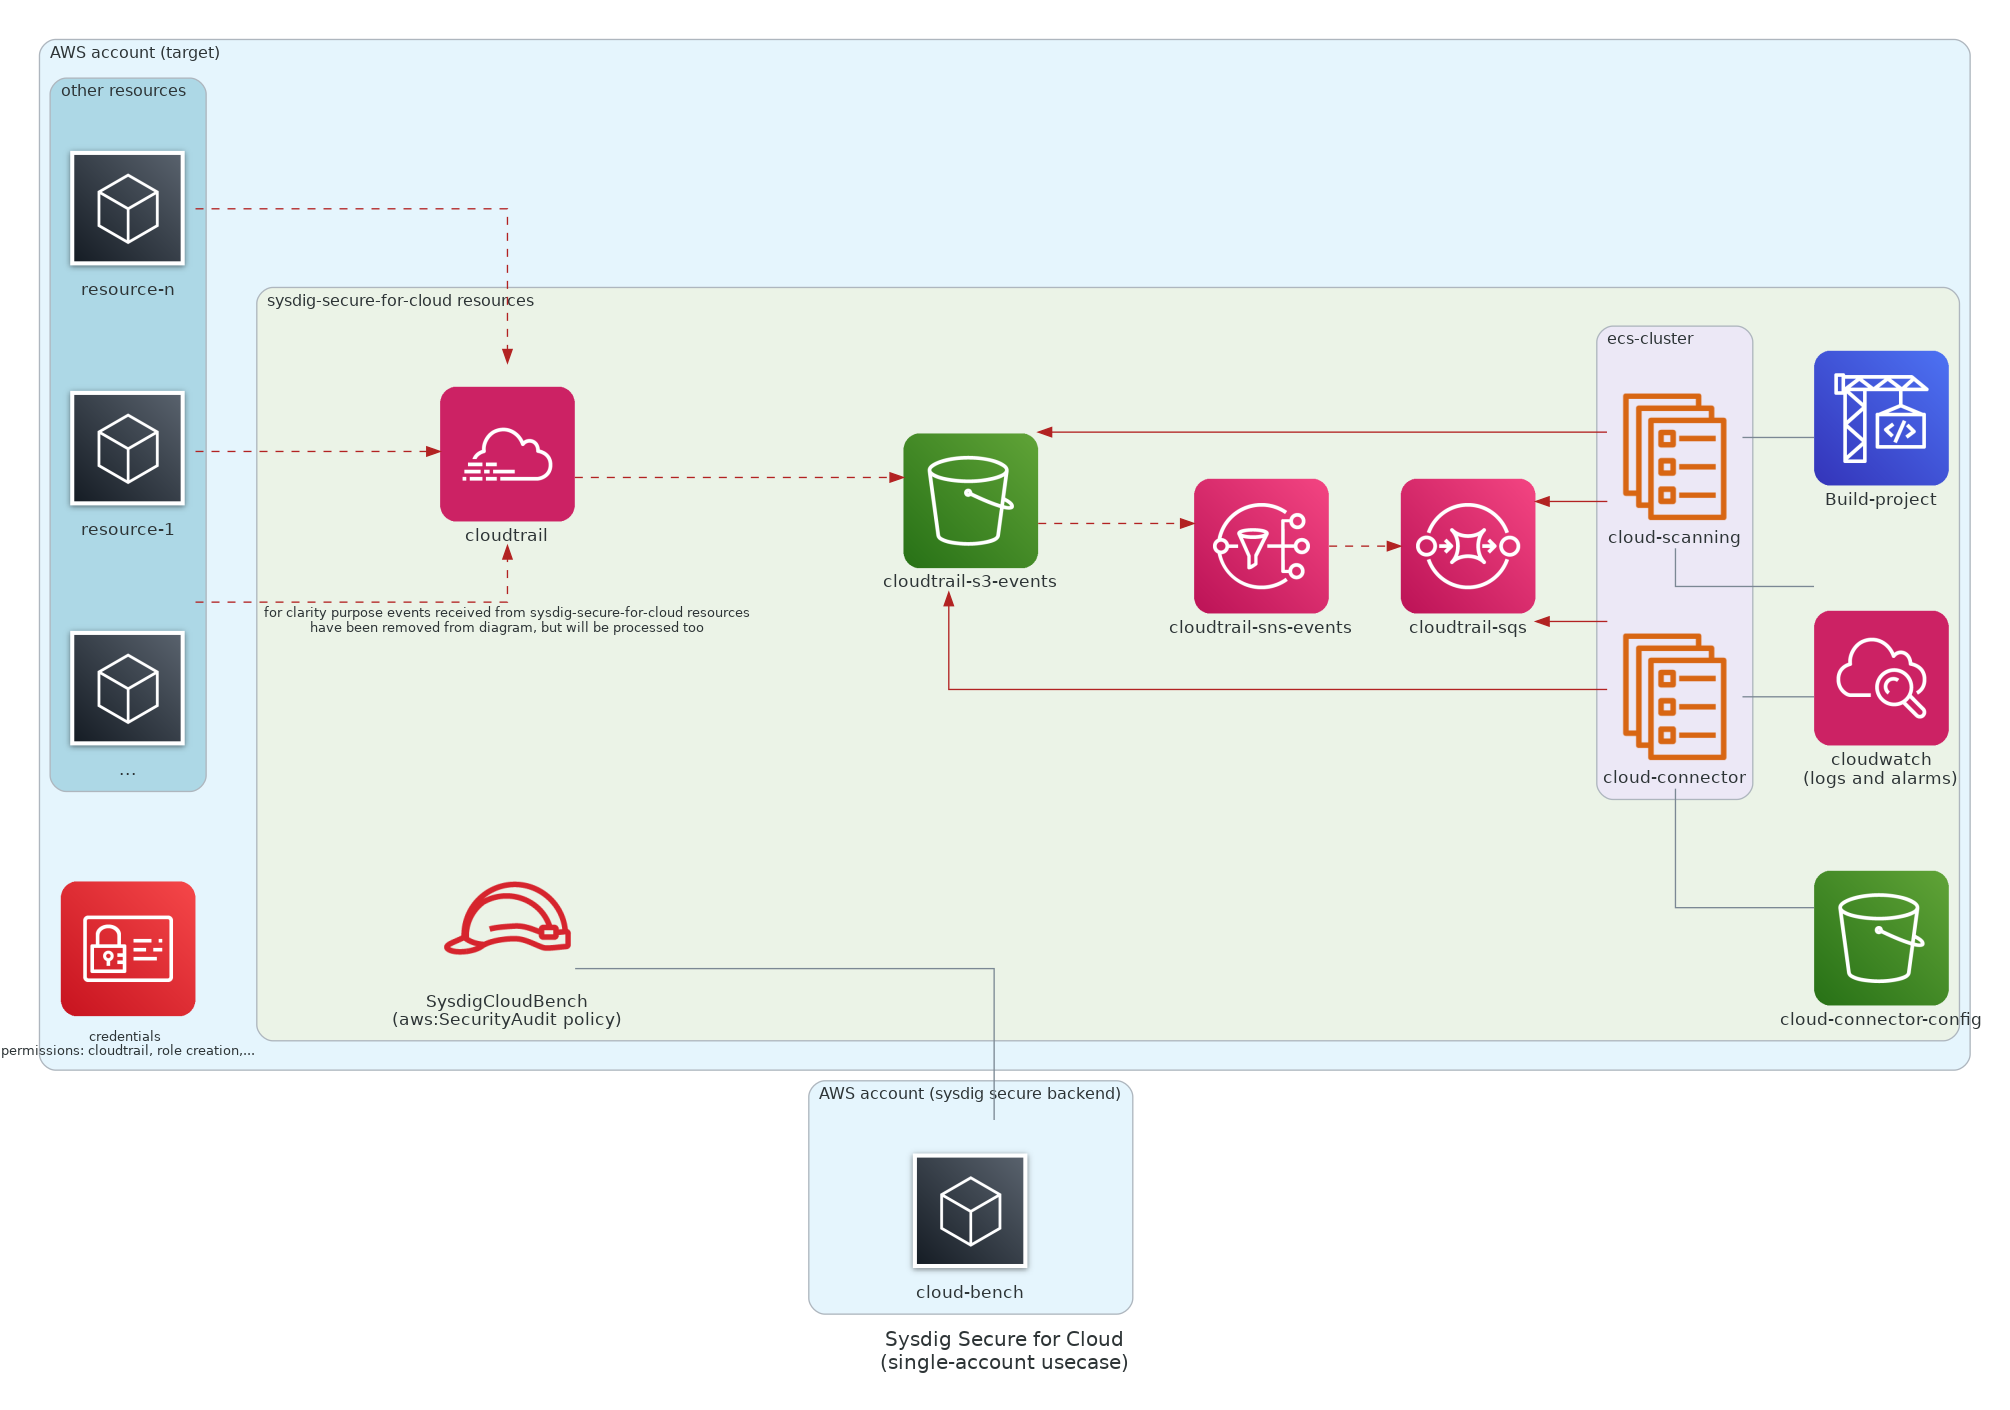
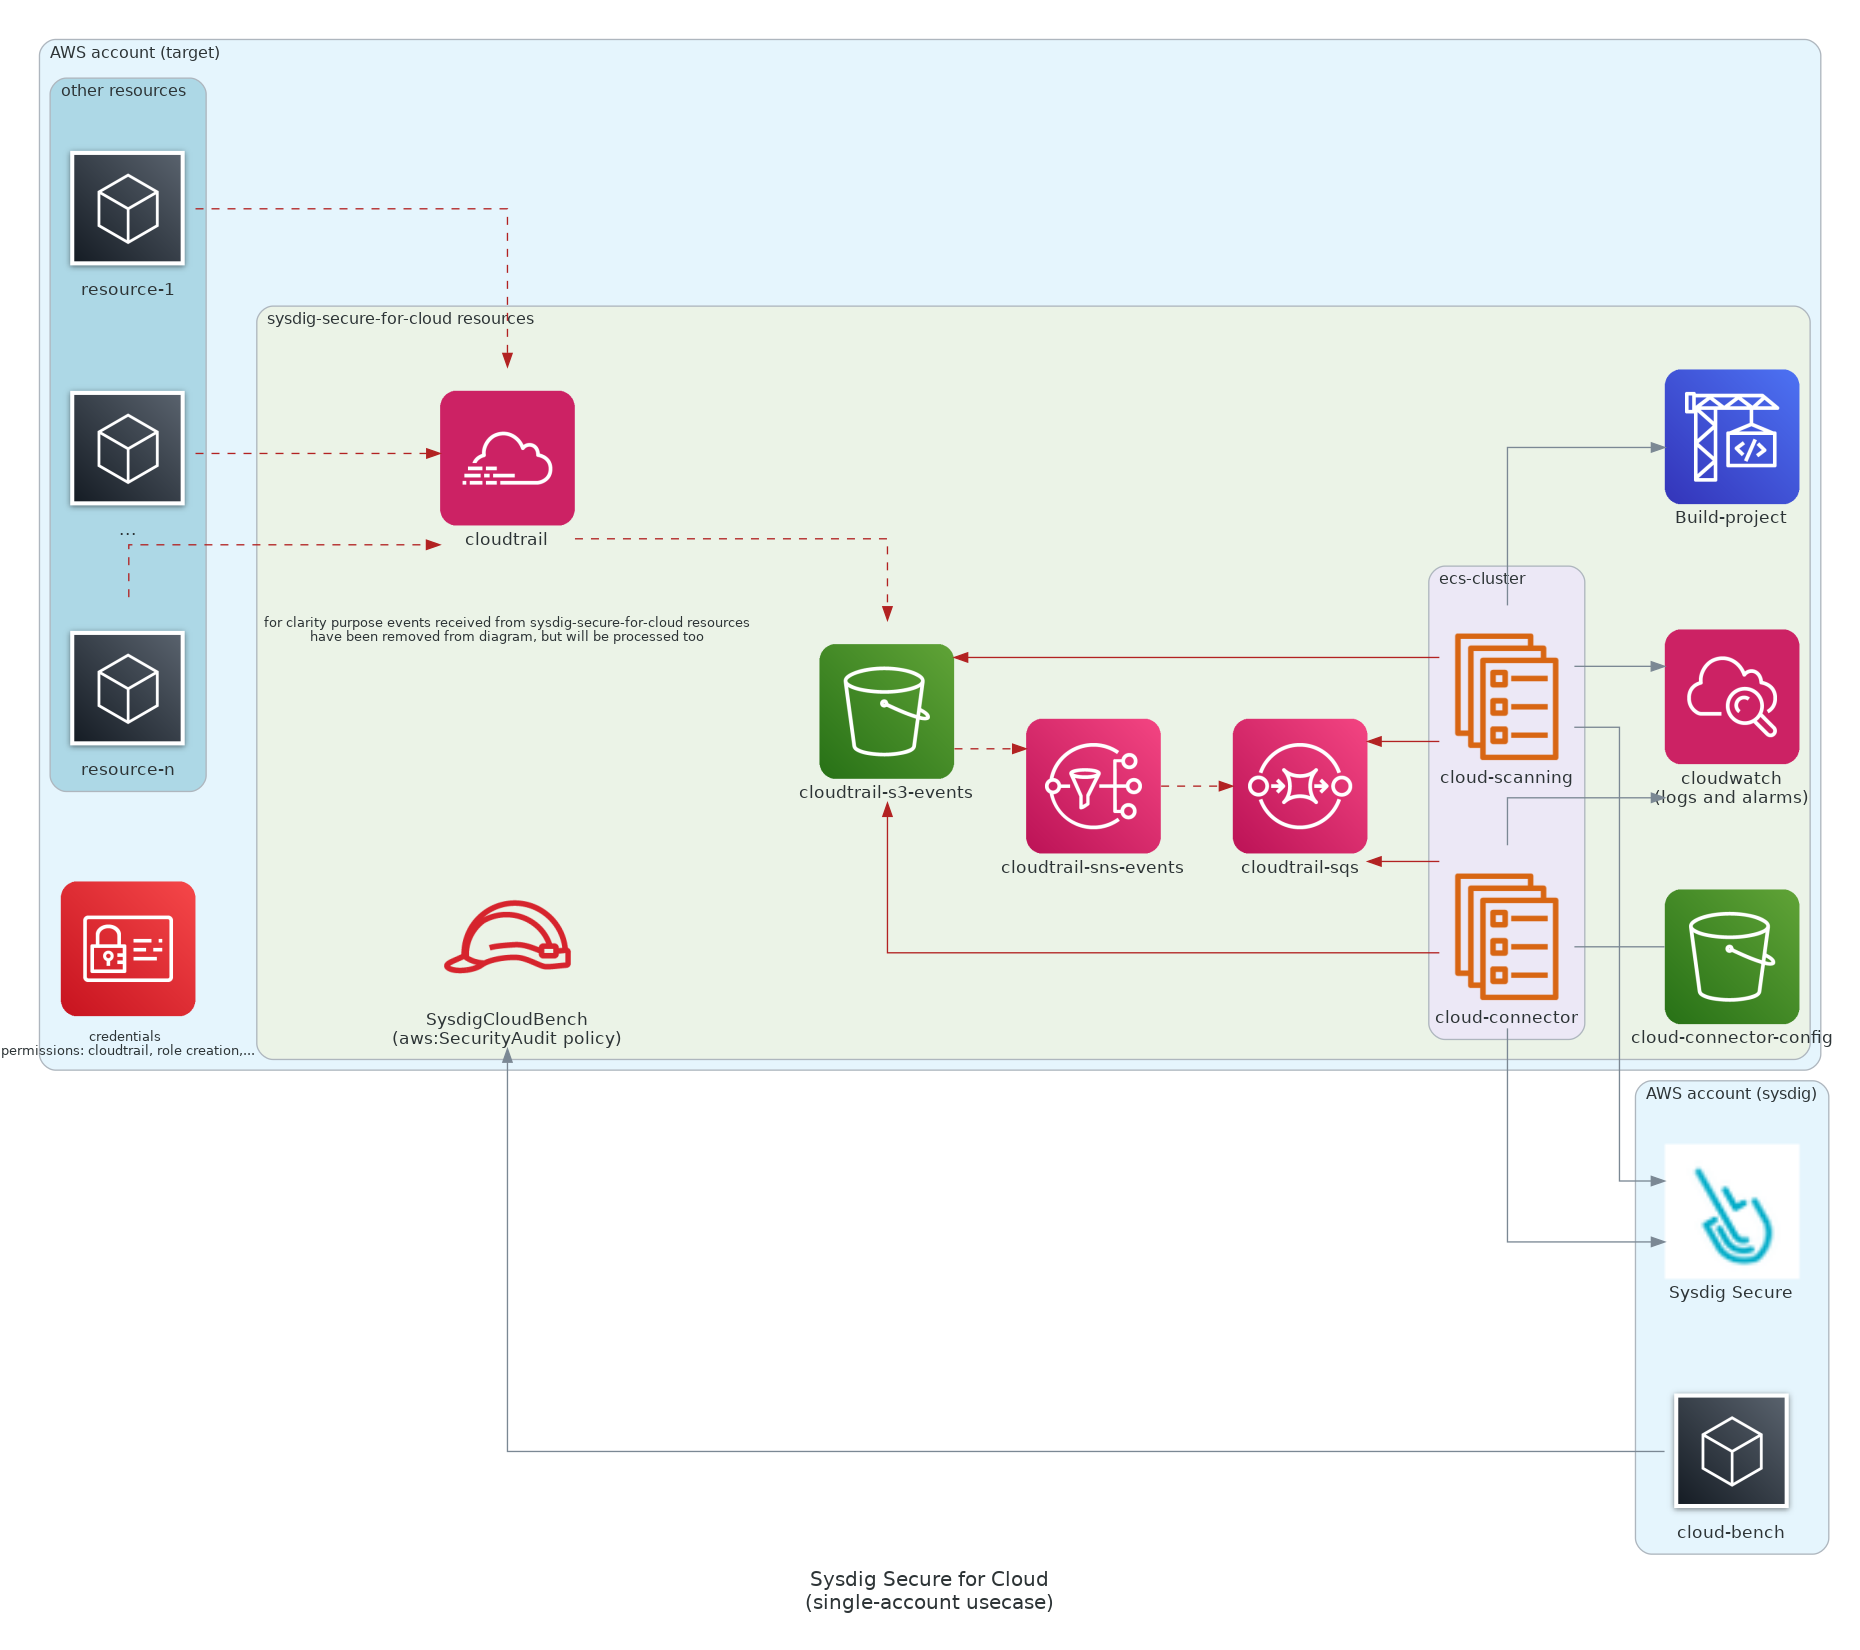
chore(doc): add sysdig object on diag

Changed region(s): [[0.0, 0.0, 0.9978, 0.9986]]

diff --git a/examples/organizational/diagram-org.py b/examples/organizational/diagram-org.py
@@ -1,5 +1,6 @@
 # diagrams as code vía https://diagrams.mingrammer.com
 from diagrams import Diagram, Cluster, Diagram, Edge, Node
+from diagrams.custom import Custom
 from diagrams.aws.general import General
 from diagrams.aws.management import Cloudtrail
 from diagrams.aws.storage import S3, SimpleStorageServiceS3Bucket
@@ -35,15 +36,16 @@ with Diagram("Sysdig Secure for Cloud{}(organizational usecase)".format("\n"), g
         with Cluster("master account"):
 
 
-            cloudtrail          = Cloudtrail("cloudtrail", shape="plaintext")
-            cloudtrail_legend = ("for clarity purpose events received from 'secure for cloud' member account\n\
+            cloudtrail              = Cloudtrail("cloudtrail", shape="plaintext")
+            cloudtrail_legend       = ("for clarity purpose events received from 'secure for cloud' member account\n\
                                     and master account have been removed from diagram, but will be processed too ")
+
             Node(label=cloudtrail_legend, width="5",shape="plaintext", labelloc="t", fontsize="10")
 
-            master_credentials = IAM("credentials \npermissions: cloudtrail, role creation,...", fontsize="10")
-            secure_for_cloud_role    = IAMRole("SysdigSecureForCloudRole", **role_attr)
-            cloudtrail_s3       = S3("cloudtrail-s3-events")
-            sns                 = SNS("cloudtrail-sns-events", comment="i'm a graph")
+            master_credentials      = IAM("credentials \npermissions: cloudtrail, role creation,...", fontsize="10")
+            secure_for_cloud_role   = IAMRole("SysdigSecureForCloudRole", **role_attr)
+            cloudtrail_s3           = S3("cloudtrail-s3-events")
+            sns                     = SNS("cloudtrail-sns-events", comment="i'm a graph")
 
             cloudtrail >> Edge(color=event_color, style="dashed") >> cloudtrail_s3 >> Edge(color=event_color, style="dashed") >> sns
 
@@ -56,16 +58,21 @@ with Diagram("Sysdig Secure for Cloud{}(organizational usecase)".format("\n"), g
             with Cluster("ecs-cluster"):
                 cloud_connector = ElasticContainerServiceService("cloud-connector")
 
-            sqs = SQS("cloudtrail-sqs")
-            s3_config = S3("cloud-connector-config")
-            cloudwatch = Cloudwatch("cloudwatch\nlogs and alarms")
+            sqs         = SQS("cloudtrail-sqs")
+            s3_config   = S3("cloud-connector-config")
+            cloudwatch  = Cloudwatch("cloudwatch\nlogs and alarms")
 
             sqs << Edge(color=event_color) << cloud_connector
             cloud_connector - s3_config
-            cloud_connector - cloudwatch
+            cloud_connector >> cloudwatch
 
 
         member_accounts >> Edge(color=event_color, style="dashed") >>  cloudtrail
         sns >> Edge(color=event_color, style="dashed") >> sqs
 #        cloudtrail_s3 << Edge(color=event_color) << cloud_connector
         (cloudtrail_s3 << Edge(color=event_color) << secure_for_cloud_role) -  Edge(xlabel="assumeRole", color=event_color) - cloud_connector
+
+    with Cluster("AWS account (sysdig)"):
+        sds = Custom("Sysdig Secure", "../../resources/diag-sysdig-icon.png")
+
+    cloud_connector >> sds

diff --git a/examples/single-account/diagram-single.py b/examples/single-account/diagram-single.py
@@ -1,5 +1,6 @@
 # diagrams as code vía https://diagrams.mingrammer.com
 from diagrams import Diagram, Cluster, Diagram, Edge, Node
+from diagrams.custom import Custom
 from diagrams.aws.general import General
 from diagrams.aws.management import Cloudtrail
 from diagrams.aws.storage import S3, SimpleStorageServiceS3Bucket
@@ -57,9 +58,9 @@ with Diagram("Sysdig Secure for Cloud{}(single-account usecase)".format("\n"), g
             sqs << Edge(color=event_color) << cloud_connector
             sqs << Edge(color=event_color) << cloud_scanning
             cloud_connector - s3_config
-            cloud_connector - cloudwatch
-            cloud_scanning - cloudwatch
-            cloud_scanning - codebuild
+            cloud_connector >> cloudwatch
+            cloud_scanning >> cloudwatch
+            cloud_scanning >> codebuild
 
 
             # bench-role
@@ -70,7 +71,10 @@ with Diagram("Sysdig Secure for Cloud{}(single-account usecase)".format("\n"), g
         (cloudtrail_s3 << Edge(color=event_color)) -  cloud_connector
         (cloudtrail_s3 << Edge(color=event_color)) - cloud_scanning
 
-    with Cluster("AWS account (sysdig secure backend)"):
+    with Cluster("AWS account (sysdig)"):
         sds_account = General("cloud-bench")
+        sds = Custom("Sysdig Secure", "../../resources/diag-sysdig-icon.png")
 
-    cloud_bench_role - sds_account
+    cloud_bench_role << sds_account
+    cloud_connector >> sds
+    cloud_scanning >> sds
